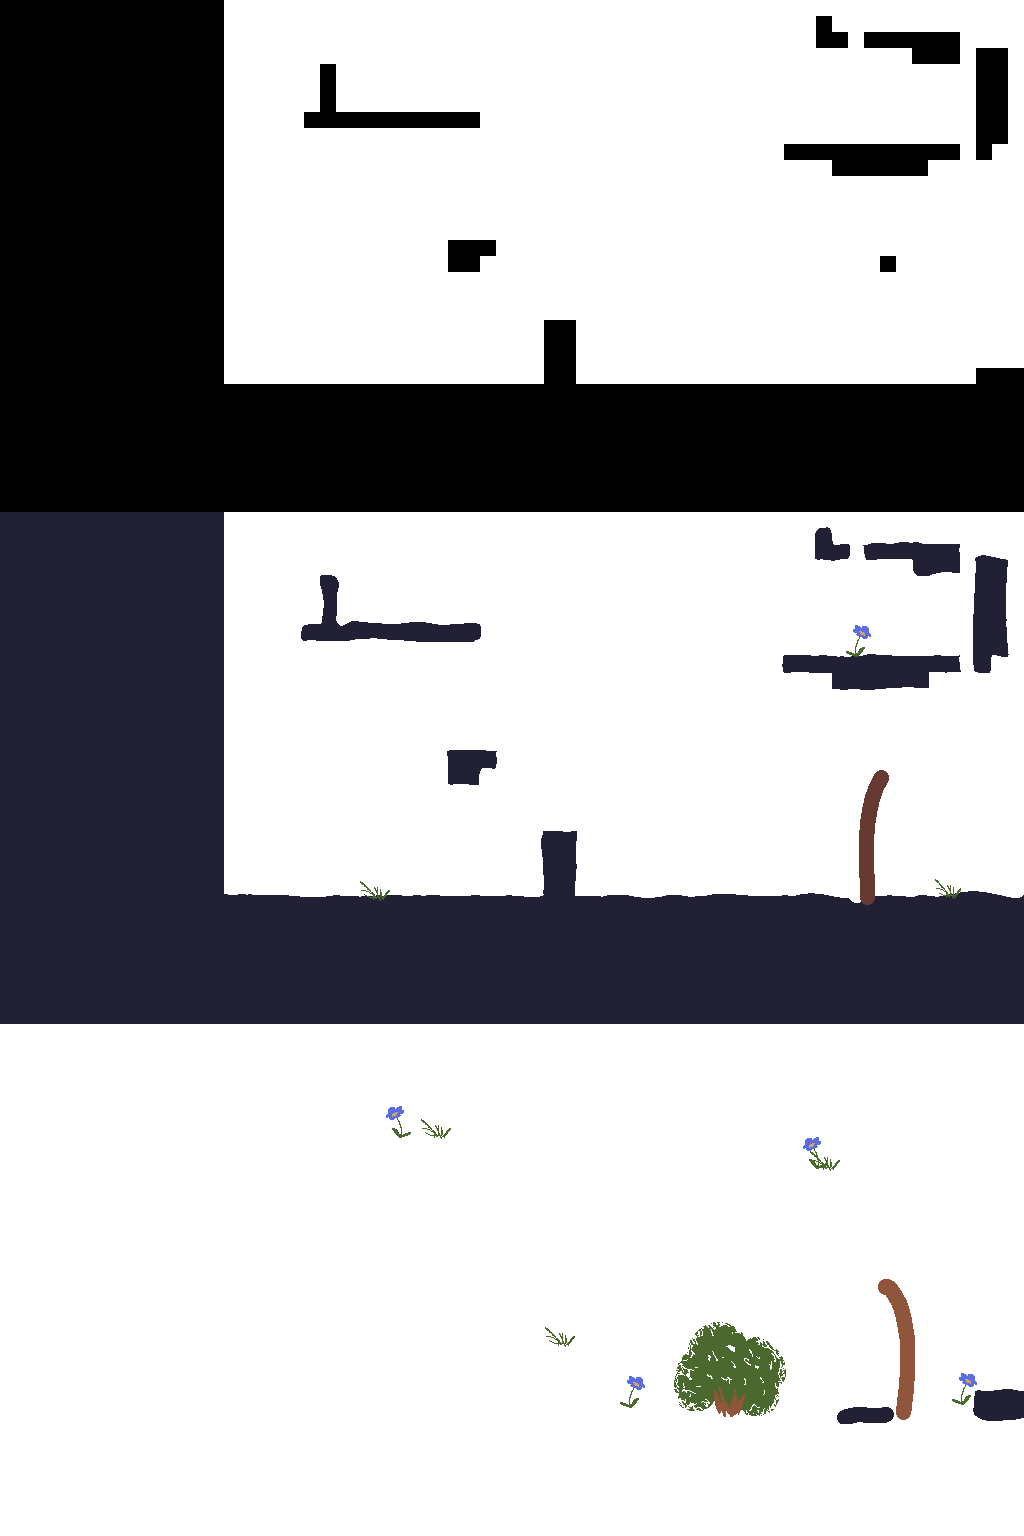
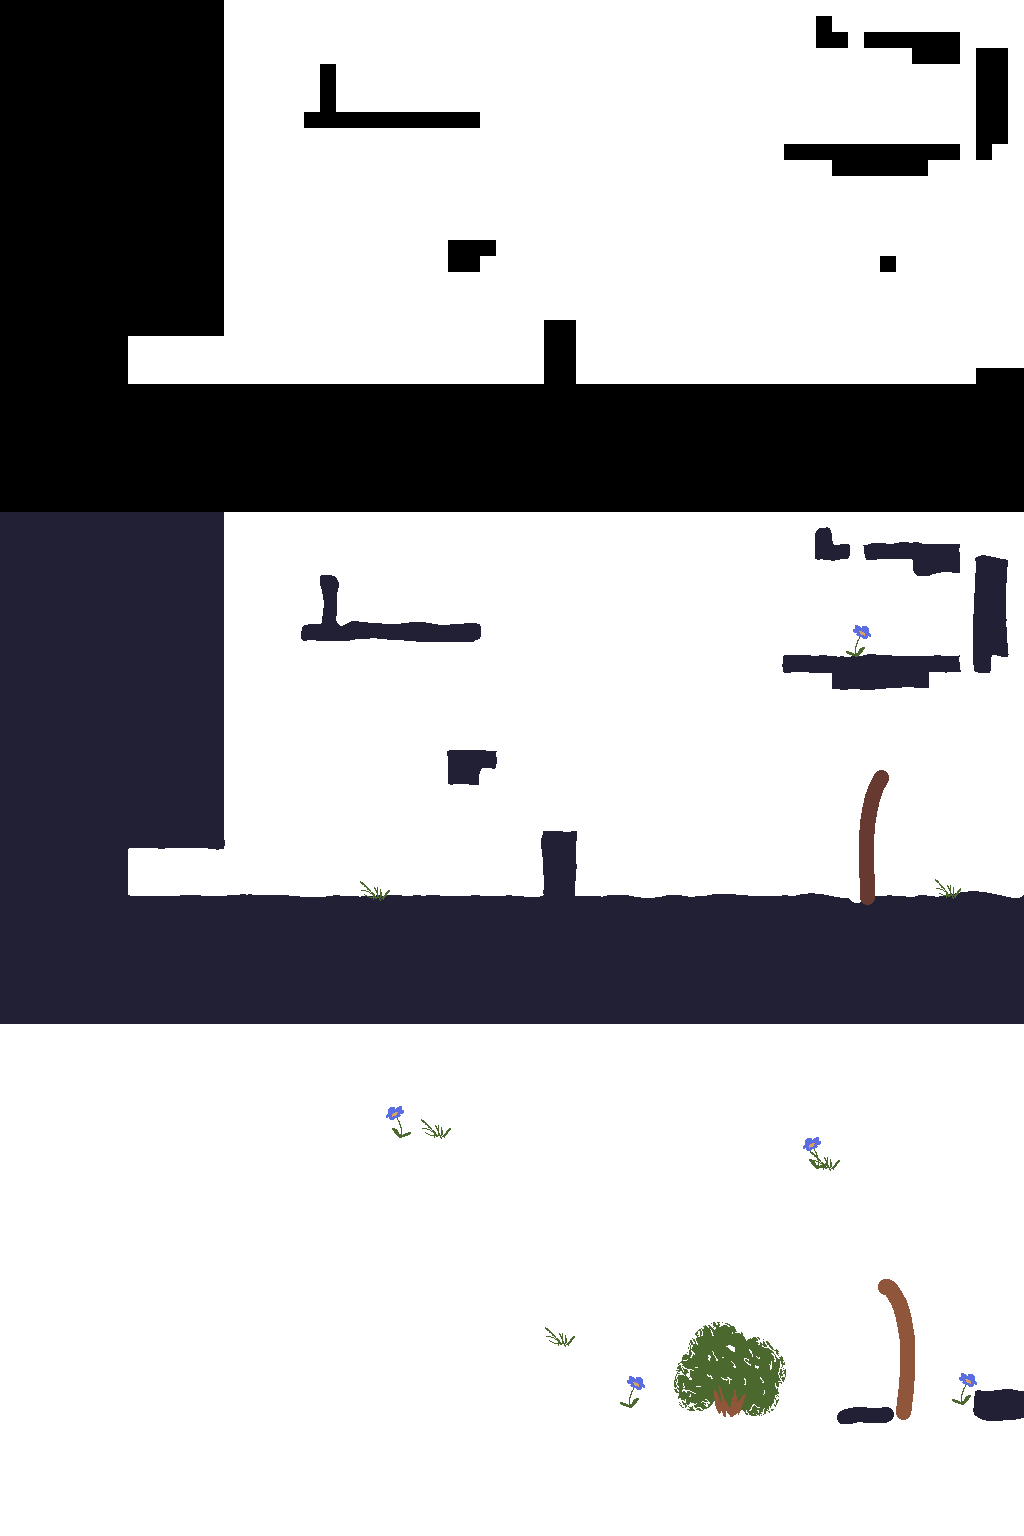
crouching prototype

Changed region(s): [[0.125, 0.5312, 0.2188, 0.5938], [0.125, 0.2188, 0.2188, 0.25]]

diff --git a/engine/src/main/java/com/etherblood/etherworld/engine/characters/CharacterSystem.java b/engine/src/main/java/com/etherblood/etherworld/engine/characters/CharacterSystem.java
@@ -4,17 +4,25 @@ import com.etherblood.etherworld.data.EntityData;
 import com.etherblood.etherworld.engine.EntityUtil;
 import com.etherblood.etherworld.engine.Etherworld;
 import com.etherblood.etherworld.engine.PlayerAction;
+import com.etherblood.etherworld.engine.RectangleHitbox;
 import com.etherblood.etherworld.engine.characters.components.AttackParams;
 import com.etherblood.etherworld.engine.characters.components.CharacterStateKey;
 import com.etherblood.etherworld.engine.characters.components.PhysicParams;
+import com.etherblood.etherworld.engine.chunks.Chunk;
+import com.etherblood.etherworld.engine.chunks.ChunkManager;
+import com.etherblood.etherworld.engine.chunks.ChunkPosition;
+import com.etherblood.etherworld.engine.chunks.LocalTilePosition;
+import com.etherblood.etherworld.engine.chunks.TilePosition;
 import com.etherblood.etherworld.engine.components.Attackbox;
 import com.etherblood.etherworld.engine.components.FacingDirection;
 import com.etherblood.etherworld.engine.components.GameCharacter;
 import com.etherblood.etherworld.engine.components.Health;
 import com.etherblood.etherworld.engine.components.Hurtbox;
 import com.etherblood.etherworld.engine.components.Movebox;
+import com.etherblood.etherworld.engine.components.Obstaclebox;
 import com.etherblood.etherworld.engine.components.OnGround;
 import com.etherblood.etherworld.engine.components.OwnerId;
+import com.etherblood.etherworld.engine.components.Position;
 import com.etherblood.etherworld.engine.components.Respawn;
 import com.etherblood.etherworld.engine.components.Speed;
 import com.etherblood.etherworld.engine.systems.GameSystem;
@@ -40,45 +48,147 @@ public class CharacterSystem implements GameSystem {
             try {
                 CharacterParams params = characterParams.get(gameCharacter.id());
                 CharacterStateKey stateKey = data.get(entity, CharacterStateKey.class);
-                switch (stateKey.value()) {
-                    case IDLE, ATTACK -> normal(world, playerActions, params, entity, stateKey.value(), (int) (world.getTick() - stateKey.startTick()));
-                    case HURT -> hurt(world, playerActions, params, entity, (int) (world.getTick() - stateKey.startTick()));
-                    case DEAD -> dead(world, playerActions, params, entity, (int) (world.getTick() - stateKey.startTick()));
-                    default -> throw new AssertionError(stateKey.value());
-                }
+                updateCharacter(world, playerActions, params, entity, stateKey.value(), (int) (world.getTick() - stateKey.startTick()));
             } catch (Throwable t) {
                 throw new RuntimeException("Failed to update entity with character " + gameCharacter, t);
             }
         }
     }
 
-    private void normal(Etherworld world, Map<Integer, Set<PlayerAction>> playerActions, CharacterParams params, int entity, CharacterState state, int elapsedTicks) {
-        EntityData data = world.getData();
-        applyPhysics(world, playerActions, params, entity, state, data);
 
-        Map<Integer, Attackbox> attacks = EntityUtil.findAttacks(data, entity);
-        int damage = attacks.values().stream().mapToInt(Attackbox::damage).sum();
-        if (damage > 0) {
-            data.set(entity, new CharacterStateKey(CharacterState.HURT, world.getTick()));
-            Health health = data.get(entity, Health.class);
-            if (health != null) {
-                data.set(entity, health.damage(damage));
-            }
-        } else if (state == CharacterState.ATTACK) {
+    private void updateCharacter(Etherworld world, Map<Integer, Set<PlayerAction>> playerActions, CharacterParams params, int entity, CharacterState state, int elapsedTicks) {
+        EntityData data = world.getData();
+
+        // expire previous state
+        if (state == CharacterState.ATTACK) {
             AttackParams attackParams = params.attack();
-            if (attackParams.damageFrom() <= elapsedTicks && elapsedTicks <= attackParams.damageTo()) {
+            if (elapsedTicks >= attackParams.attackTicks()) {
+                data.remove(entity, Attackbox.class);
+                data.set(entity, new CharacterStateKey(CharacterState.IDLE, world.getTick()));
+                state = CharacterState.IDLE;
+            }
+        } else if (state == CharacterState.DEAD) {
+            if (elapsedTicks >= params.hurt().respawnTicks()) {
+                Respawn respawn = data.get(entity, Respawn.class);
+                if (respawn != null) {
+                    data.set(entity, respawn.position());
+                    data.set(entity, new Speed(0, 0));
+                    data.set(entity, new Movebox(params.physics().hitbox()));
+                    data.set(entity, new Hurtbox(params.physics().hitbox()));
+                    Health health = data.get(entity, Health.class);
+                    if (health != null) {
+                        data.set(entity, new Health(health.max(), health.max()));
+                    }
+                    data.set(entity, new CharacterStateKey(CharacterState.IDLE, world.getTick()));
+                    state = CharacterState.IDLE;
+                }
+            }
+        } else if (state == CharacterState.HURT) {
+            if (elapsedTicks >= params.hurt().hurtTicks()) {
+                data.set(entity, new CharacterStateKey(CharacterState.IDLE, world.getTick()));
+                state = CharacterState.IDLE;
+            }
+        }
+
+
+        if (state != CharacterState.HURT && state != CharacterState.DEAD) {
+            boolean crouchAction = false;
+            if (params.crouch() != null) {
+                OwnerId owner = data.get(entity, OwnerId.class);
+                if (owner != null) {
+                    Set<PlayerAction> actions = playerActions.getOrDefault(owner.id(), Collections.emptySet());
+                    if (actions.contains(PlayerAction.CROUCH)) {
+                        crouchAction = true;
+                    }
+                }
+            }
+
+            if (crouchAction) {
+                if (state != CharacterState.CROUCH) {
+                    data.set(entity, new CharacterStateKey(CharacterState.CROUCH, world.getTick()));
+                    state = CharacterState.CROUCH;
+                    data.set(entity, new Movebox(params.crouch().hitbox()));
+                    data.set(entity, new Hurtbox(params.crouch().hitbox()));
+                }
+            } else {
+                if (state == CharacterState.CROUCH) {
+                    Position position = data.get(entity, Position.class);
+                    if (!intersectsWorld(world, params.physics().hitbox().translate(position), entity)) {
+                        // TODO: above check should ignore obstacles that already collide while crouching
+                        data.set(entity, new CharacterStateKey(CharacterState.IDLE, world.getTick()));
+                        state = CharacterState.IDLE;
+                        data.set(entity, new Movebox(params.physics().hitbox()));
+                        data.set(entity, new Hurtbox(params.physics().hitbox()));
+                    }
+                }
+            }
+
+            // damage hitbox check after crouch
+            Map<Integer, Attackbox> attacks = EntityUtil.findAttacks(data, entity);
+            int damage = attacks.values().stream().mapToInt(Attackbox::damage).sum();
+            if (damage > 0) {
+                Health health = data.get(entity, Health.class);
+                if (health != null) {
+                    data.set(entity, health.damage(damage));
+                }
+                data.set(entity, new CharacterStateKey(CharacterState.HURT, world.getTick()));
+                return;
+            }
+        }
+
+        if (state != CharacterState.DEAD) {
+            Health health = data.get(entity, Health.class);
+            if (health != null && health.value() <= 0) {
+                data.set(entity, new CharacterStateKey(CharacterState.DEAD, world.getTick()));
+                data.remove(entity, Hurtbox.class);
+            }
+        }
+
+        // apply selected state
+        applyPhysics(world, state != CharacterState.DEAD ? playerActions : null, params, entity, state, data);
+
+        if (state == CharacterState.ATTACK) {
+            AttackParams attackParams = params.attack();
+            if (attackParams.damageStart() == elapsedTicks) {
                 data.set(entity, new Attackbox(attackParams.damageBox(), attackParams.damage()));
             }
-            if (elapsedTicks >= attackParams.attackTicks()) {
-                data.set(entity, new CharacterStateKey(CharacterState.IDLE, world.getTick()));
+            if (elapsedTicks == attackParams.damageEnd()) {
+                data.remove(entity, Attackbox.class);
+            }
+        }
+    }
+
+    private boolean intersectsWorld(Etherworld world, RectangleHitbox hitbox, int excludeEntity) {
+        ChunkManager chunks = world.getChunks();
+        TilePosition minTile = chunks.toFloorTilePosition(new Position(hitbox.minX(), hitbox.minY()));
+        TilePosition maxTile = chunks.toCeilTilePosition(new Position(hitbox.maxX(), hitbox.maxY()));
+        for (int y = minTile.y(); y < maxTile.y(); y++) {
+            for (int x = minTile.x(); x < maxTile.x(); x++) {
+                TilePosition tilePosition = new TilePosition(x, y);
+                ChunkPosition chunkPosition = chunks.toChunkPosition(tilePosition);
+                Chunk chunk = chunks.get(chunkPosition);
+                if (chunk != null) {
+                    LocalTilePosition tile = chunks.toLocalChunkPosition(tilePosition);
+                    if (chunk.isObstacle(tile)) {
+                        return true;
+                    }
+                }
             }
         }
 
-        Health health = data.get(entity, Health.class);
-        if (health != null && health.value() <= 0) {
-            data.set(entity, new CharacterStateKey(CharacterState.DEAD, world.getTick()));
-            data.remove(entity, Hurtbox.class);
+        EntityData data = world.getData();
+        for (int other : data.list(Obstaclebox.class)) {
+            if (other == excludeEntity) {
+                continue;
+            }
+            Obstaclebox obstaclebox = data.get(other, Obstaclebox.class);
+            Position position = data.get(other, Position.class);
+            RectangleHitbox obstacle = obstaclebox.hitbox().translate(position);
+            if (obstacle.intersects(hitbox)) {
+                return true;
+            }
         }
+        return false;
     }
 
     private void applyPhysics(Etherworld world, Map<Integer, Set<PlayerAction>> playerActions, CharacterParams params, int entity, CharacterState state, EntityData data) {
@@ -93,7 +203,7 @@ public class CharacterSystem implements GameSystem {
         OwnerId owner = data.get(entity, OwnerId.class);
         if (playerActions != null && owner != null) {
             Set<PlayerAction> actions = playerActions.getOrDefault(owner.id(), Collections.emptySet());
-            nextSpeed = applyPlayerActions(world, entity, (state == CharacterState.IDLE && params.attack() != null) ? CharacterState.ATTACK : null, state == CharacterState.IDLE, data, params.physics(), vx, vy, actions);
+            nextSpeed = applyPlayerActions(world, entity, (state == CharacterState.IDLE && params.attack() != null) ? CharacterState.ATTACK : null, state == CharacterState.IDLE || state == CharacterState.CROUCH, data, params.physics(), vx, vy, actions);
         } else {
             nextSpeed = new Speed(vx, vy);
         }
@@ -102,7 +212,7 @@ public class CharacterSystem implements GameSystem {
 
     private Speed applyPlayerActions(Etherworld world, int entity, CharacterState onAttack, boolean canTurn, EntityData data, PhysicParams physicParams, int vx, int vy, Set<PlayerAction> actions) {
         if (onAttack != null && actions.contains(PlayerAction.ATTACK)) {
-            data.set(entity, new CharacterStateKey(CharacterState.ATTACK, world.getTick()));
+            data.set(entity, new CharacterStateKey(onAttack, world.getTick()));
         }
         if (actions.contains(PlayerAction.RIGHT) && !actions.contains(PlayerAction.LEFT)) {
             if (canTurn) {
@@ -124,32 +234,5 @@ public class CharacterSystem implements GameSystem {
             }
         }
         return new Speed(vx, vy);
-    }
-
-    private void hurt(Etherworld world, Map<Integer, Set<PlayerAction>> playerActions, CharacterParams params, int entity, int elapsedTicks) {
-        EntityData data = world.getData();
-        applyPhysics(world, null, params, entity, CharacterState.HURT, data);
-        if (elapsedTicks >= params.hurt().hurtTicks()) {
-            data.set(entity, new CharacterStateKey(CharacterState.IDLE, world.getTick()));
-        }
-    }
-
-    private void dead(Etherworld world, Map<Integer, Set<PlayerAction>> playerActions, CharacterParams params, int entity, int elapsedTicks) {
-        EntityData data = world.getData();
-        if (elapsedTicks >= params.hurt().respawnTicks()) {
-            Respawn respawn = data.get(entity, Respawn.class);
-            if (respawn != null) {
-                data.set(entity, respawn.position());
-                data.set(entity, new Speed(0, 0));
-                data.set(entity, new CharacterStateKey(CharacterState.IDLE, world.getTick()));
-                data.set(entity, new Hurtbox(data.get(entity, Movebox.class).hitbox()));
-                Health health = data.get(entity, Health.class);
-                if (health != null) {
-                    data.set(entity, new Health(health.max(), health.max()));
-                }
-            }
-        } else {
-            applyPhysics(world, null, params, entity, CharacterState.HURT, data);
-        }
     }
 }

diff --git a/glue/src/main/java/com/etherblood/etherworld/glue/Main.java b/glue/src/main/java/com/etherblood/etherworld/glue/Main.java
@@ -12,6 +12,7 @@ import com.etherblood.etherworld.engine.characters.CharacterState;
 import com.etherblood.etherworld.engine.characters.CharacterSystem;
 import com.etherblood.etherworld.engine.characters.components.AttackParams;
 import com.etherblood.etherworld.engine.characters.components.CharacterStateKey;
+import com.etherblood.etherworld.engine.characters.components.CrouchParams;
 import com.etherblood.etherworld.engine.characters.components.HurtParams;
 import com.etherblood.etherworld.engine.characters.components.PhysicParams;
 import com.etherblood.etherworld.engine.chunks.Chunk;
@@ -314,11 +315,23 @@ class Main {
                 attackParams = new AttackParams(
                         damagebox,
                         startMillis * TICKS_PER_SECOND / MILLIS_PER_SECOND,
-                        endMillis * TICKS_PER_SECOND / MILLIS_PER_SECOND,
+                        endMillis * TICKS_PER_SECOND / MILLIS_PER_SECOND + 1,
                         1,
                         sprite.info.animationDurationMillis("Attack") * TICKS_PER_SECOND / MILLIS_PER_SECOND);
             }
         }
+        Optional<AseSlice> crouchSlice = sprite.info.meta().slices().stream().filter(x -> x.name().equals("Crouch")).findFirst();
+        CrouchParams crouchParams = crouchSlice.map(aseSlice -> {
+            AseSliceKey aseSliceKey = aseSlice.keys().get(0);
+            Position p = new Position(
+                    converter.pixelToPosition(hitboxKey.pivot().x() + hitboxKey.bounds().x()),
+                    converter.pixelToPosition(hitboxKey.pivot().y() + hitboxKey.bounds().y()));
+            return new CrouchParams(new RectangleHitbox(
+                    converter.pixelToPosition(aseSliceKey.bounds().x()) - p.x(),
+                    converter.pixelToPosition(aseSliceKey.bounds().y()) - p.y(),
+                    converter.pixelToPosition(aseSliceKey.bounds().w()),
+                    converter.pixelToPosition(aseSliceKey.bounds().h())));
+        }).orElse(null);
 
         PhysicParams physicParams = new PhysicParams(hitbox, 8 * 16, 20, 12 * 16, 12);
         HurtParams hurtParams = new HurtParams(
@@ -331,7 +344,7 @@ class Main {
         data.set(entity, new CharacterStateKey(CharacterState.IDLE, world.getTick()));
         data.set(entity, FacingDirection.RIGHT);
         if (!characterParams.containsKey(name)) {
-            CharacterParams params = new CharacterParams(physicParams, attackParams, hurtParams);
+            CharacterParams params = new CharacterParams(physicParams, attackParams, hurtParams, crouchParams);
             characterParams.put(name, params);
         }
         return entity;
@@ -553,6 +566,9 @@ class Main {
             }
             case DEAD -> {
                 return "Dead";
+            }
+            case CROUCH -> {
+                return "Crouch";
             }
             default -> throw new AssertionError(state);
         }

diff --git a/engine/src/main/java/com/etherblood/etherworld/engine/characters/CharacterParams.java b/engine/src/main/java/com/etherblood/etherworld/engine/characters/CharacterParams.java
@@ -1,9 +1,14 @@
 package com.etherblood.etherworld.engine.characters;
 
 import com.etherblood.etherworld.engine.characters.components.AttackParams;
+import com.etherblood.etherworld.engine.characters.components.CrouchParams;
 import com.etherblood.etherworld.engine.characters.components.HurtParams;
 import com.etherblood.etherworld.engine.characters.components.PhysicParams;
 
-public record CharacterParams(PhysicParams physics, AttackParams attack, HurtParams hurt) {
+public record CharacterParams(
+        PhysicParams physics,
+        AttackParams attack,
+        HurtParams hurt,
+        CrouchParams crouch) {
 
 }

diff --git a/engine/src/main/java/com/etherblood/etherworld/engine/characters/components/PhysicParams.java b/engine/src/main/java/com/etherblood/etherworld/engine/characters/components/PhysicParams.java
@@ -3,7 +3,7 @@ package com.etherblood.etherworld.engine.characters.components;
 import com.etherblood.etherworld.engine.RectangleHitbox;
 
 public record PhysicParams(
-        RectangleHitbox movebox,
+        RectangleHitbox hitbox,
         int runSpeed,
         int gravityPerTick,
         int jumpStrength,

diff --git a/engine/src/main/java/com/etherblood/etherworld/engine/characters/components/AttackParams.java b/engine/src/main/java/com/etherblood/etherworld/engine/characters/components/AttackParams.java
@@ -4,8 +4,8 @@ import com.etherblood.etherworld.engine.RectangleHitbox;
 
 public record AttackParams(
         RectangleHitbox damageBox,
-        int damageFrom,
-        int damageTo,
+        int damageStart,
+        int damageEnd,
         int damage,
         int attackTicks
 ) {

diff --git a/engine/src/main/java/com/etherblood/etherworld/engine/characters/components/CrouchParams.java b/engine/src/main/java/com/etherblood/etherworld/engine/characters/components/CrouchParams.java
@@ -1,0 +1,6 @@
+package com.etherblood.etherworld.engine.characters.components;
+
+import com.etherblood.etherworld.engine.RectangleHitbox;
+
+public record CrouchParams(RectangleHitbox hitbox) {
+}
